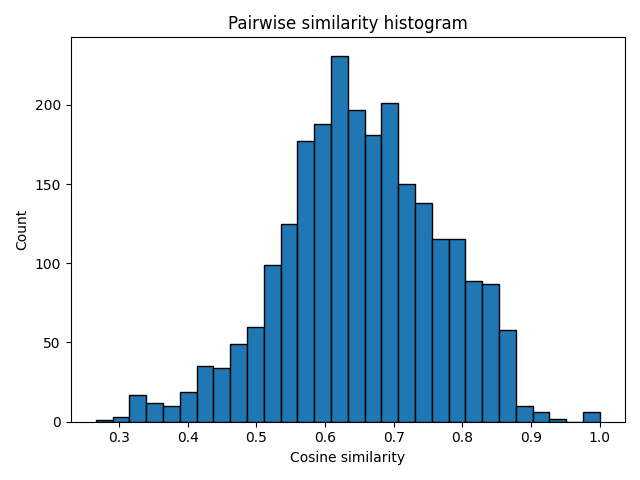
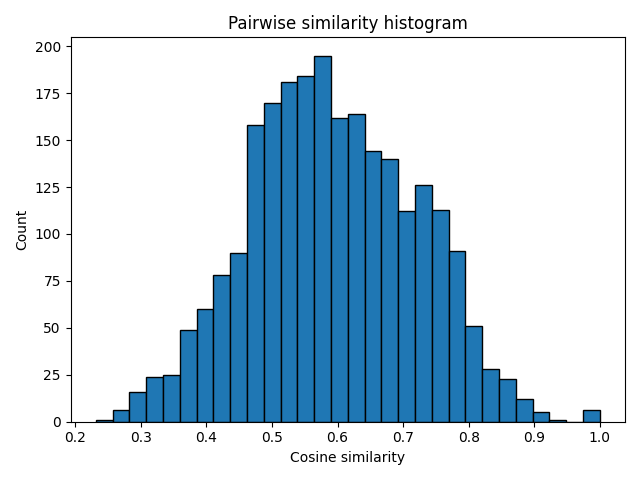
Enhance clustering functionality by implementing automatic optimal K selection and labeling clusters with ImageNet predictions; update feature extraction to return predictions.

diff --git a/app.py b/app.py
@@ -1,15 +1,29 @@
 import streamlit as st
 import os
+from collections import Counter
 
 from main import load_images
-from features import extract_features
+from features import extract_features, categories
 from similarity import find_duplicates
 from blur import is_blurry
-from cluster import cluster_images
+from cluster import cluster_images, get_cluster_label, find_best_k
 from visualize import plot_similarity_histogram, plot_pca_clusters, plot_blur_scores
 from organize import create_output_dirs, save_duplicates, save_blurry, save_clusters, zip_output
 
 IMAGE_FOLDER = "images"
+
+@st.cache_data
+def get_optimal_k(features_array):
+    return find_best_k(features_array, k_range=(5, 10))
+
+def label_clusters_by_prediction(cluster_labels, predictions, categories):
+    cluster_names = {}
+    for cluster_id in set(cluster_labels):
+        indices = [i for i, l in enumerate(cluster_labels) if l == cluster_id]
+        cluster_preds = [predictions[i] for i in indices]
+        most_common = Counter(cluster_preds).most_common(1)[0][0]
+        cluster_names[cluster_id] = categories[most_common]
+    return cluster_names
 
 st.title("📸 Smart Photo Organizer")
 st.write("Upload or analyze a folder of images to detect duplicates, blurry photos, and clusters.")
@@ -23,8 +37,8 @@ if st.button("Run Analysis"):
     st.subheader("Loaded Images")
     st.write(f"{len(imgs)} images found")
 
-    # Features
-    features = extract_features(imgs)
+    # Features (extract both features and predictions)
+    features, predictions = extract_features(imgs)
 
     # Visualizations
     try:
@@ -68,19 +82,29 @@ if st.button("Run Analysis"):
     # CLUSTERS
     st.subheader("Clusters")
 
-    labels = cluster_images(features, k=7)
+    # Find optimal K automatically
+    with st.spinner("Finding optimal number of clusters..."):
+        best_k = get_optimal_k(features)
+
+    st.success(f"Optimal cluster count: **{best_k}**")
+
+    labels = cluster_images(features, k=best_k)
 
     try:
         plot_pca_clusters(features, labels)
     except Exception as e:
         st.warning(f"PCA plot failed: {e}")
 
+    # Label clusters by most common ImageNet prediction
+    imagenet_cluster_names = label_clusters_by_prediction(labels, predictions, categories)
+
     clusters = {}
     for i, label in enumerate(labels):
         clusters.setdefault(label, []).append(i)
 
     for label, indices in clusters.items():
-        st.write(f"Group {label} (Similar Images)")
+        imagenet_label = imagenet_cluster_names[label]
+        st.write(f"**Group {label}** – Similar Images (Predicted: {imagenet_label})")
 
         cols = st.columns(4)
         for idx, i in enumerate(indices):

diff --git a/main.py b/main.py
@@ -1,9 +1,10 @@
 import cv2
 import os
-from features import extract_features
+from collections import Counter
+from features import extract_features, categories
 from similarity import find_duplicates
 from blur import is_blurry
-from cluster import cluster_images
+from cluster import cluster_images, find_best_k
 from visualize import plot_similarity_histogram, plot_pca_clusters, plot_blur_scores
 from organize import create_output_dirs, save_duplicates, save_blurry, save_clusters
 
@@ -23,13 +24,27 @@ def load_images(folder):
     return images, filenames
 
 
+def label_clusters_by_prediction(cluster_labels, predictions, categories):
+    cluster_names = {}
+
+    for cluster_id in set(cluster_labels):
+        indices = [i for i, l in enumerate(cluster_labels) if l == cluster_id]
+        cluster_preds = [predictions[i] for i in indices]
+        
+        # Get the most common prediction
+        most_common = Counter(cluster_preds).most_common(1)[0][0]
+        cluster_names[cluster_id] = categories[most_common]
+
+    return cluster_names
+
+
 if __name__ == "__main__":
     imgs, names = load_images("images")
 
     print(f"Loaded {len(imgs)} images")
 
     # STEP 1: Feature extraction
-    features = extract_features(imgs)
+    features, predictions = extract_features(imgs)
     print("Features extracted")
 
     # STEP 2: Duplicate detection
@@ -48,14 +63,19 @@ if __name__ == "__main__":
 
     # STEP 4: Image clustering
     print("\n=== CLUSTERS ===")
-    labels = cluster_images(features, k=7)
+    best_k = find_best_k(features, k_range=(5, 10))
+    labels = cluster_images(features, k=best_k)
+    
+    # Label clusters by most common ImageNet prediction
+    cluster_names = label_clusters_by_prediction(labels, predictions, categories)
 
     clusters = {}
     for i, label in enumerate(labels):
         clusters.setdefault(label, []).append(names[i])
 
     for label, cluster_imgs in clusters.items():
-        print(f"\nCluster {label}:")
+        imagenet_label = cluster_names[label]
+        print(f"\nGroup {label} – Similar Images (Predicted: {imagenet_label}):")
         for img in cluster_imgs:
             print(f"  {img}")
 

diff --git a/features.py b/features.py
@@ -2,29 +2,50 @@ import torch
 import torchvision.models as models
 import torchvision.transforms as transforms
 import numpy as np
+from PIL import Image
 
 # Load pretrained model
 from torchvision.models import resnet18, ResNet18_Weights
 
-model = resnet18(weights=ResNet18_Weights.DEFAULT)
-model = torch.nn.Sequential(*list(model.children())[:-1])
-model.eval()
+weights = ResNet18_Weights.DEFAULT
+model_full = resnet18(weights=weights)
+model_full.eval()
 
-transform = transforms.Compose([
-    transforms.ToPILImage(),
-    transforms.Resize((224, 224)),
-    transforms.ToTensor()
-])
+# Feature extractor (remove last layer)
+feature_extractor = torch.nn.Sequential(*list(model_full.children())[:-1])
+feature_extractor.eval()
+
+# Get ImageNet categories
+categories = weights.meta["categories"]
+
+# Use the model's default transform
+transform = weights.transforms()
+
 
 def extract_features(images):
     features = []
+    predictions = []
 
     for img in images:
-        img_t = transform(img).unsqueeze(0)
+        # Convert OpenCV (BGR) to RGB
+        img_rgb = img[:, :, ::-1]
+        
+        # Convert numpy array to PIL Image
+        img_pil = Image.fromarray(img_rgb)
+        
+        # Apply transforms (handles normalization, etc.)
+        input_tensor = transform(img_pil).unsqueeze(0)
 
         with torch.no_grad():
-            feature = model(img_t)
+            # Extract features
+            feat = feature_extractor(input_tensor)
+            # Get predictions
+            output = model_full(input_tensor)
 
-        features.append(feature.flatten().numpy())
+        features.append(feat.flatten().numpy())
+        
+        # Get the predicted class index
+        pred_class = output.argmax(dim=1).item()
+        predictions.append(pred_class)
 
-    return np.array(features)
+    return np.array(features), predictions

diff --git a/cluster.py b/cluster.py
@@ -1,8 +1,34 @@
 from sklearn.cluster import KMeans
 from sklearn.preprocessing import normalize
+from sklearn.metrics import silhouette_score
 
 def cluster_images(features, k=5):
     features = normalize(features)
     kmeans = KMeans(n_clusters=k, random_state=42)
     labels = kmeans.fit_predict(features)
     return labels
+
+
+def find_best_k(features, k_range=(3, 10)):
+    best_k = None
+    best_score = -1
+    
+    # Normalize features for clustering
+    features_norm = normalize(features)
+
+    for k in range(k_range[0], k_range[1] + 1):
+        kmeans = KMeans(n_clusters=k, random_state=42)
+        labels = kmeans.fit_predict(features_norm)
+
+        # silhouette score measures cluster quality (higher is better)
+        score = silhouette_score(features_norm, labels)
+
+        print(f"k={k}, silhouette_score={score:.4f}")
+
+        if score > best_score:
+            best_score = score
+            best_k = k
+
+    print(f"\nBest k: {best_k} (score={best_score:.4f})")
+
+    return best_k
